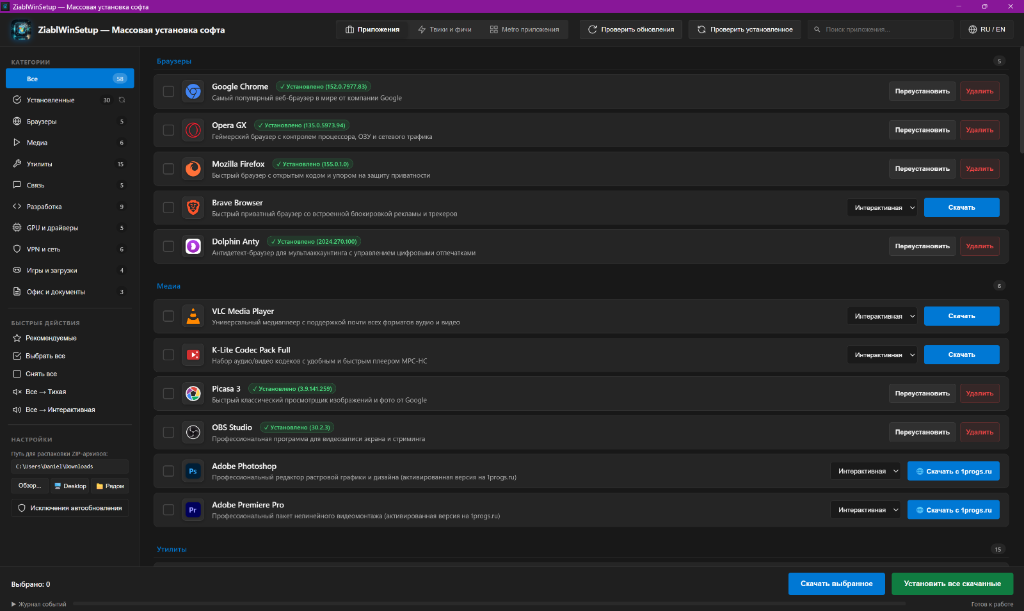
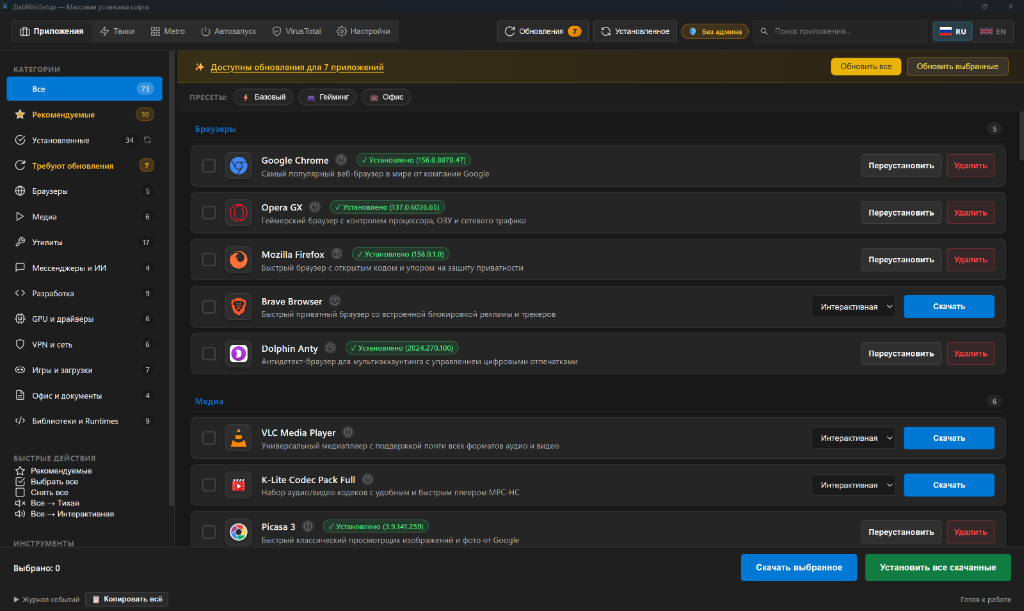
Docs: Update README.md and add high-resolution screenshots for v1.4.29

Changed region(s): [[0.0, 0.0, 1.0, 0.9951], [0.7188, 0.1866, 1.0, 0.9951]]

diff --git a/README.md b/README.md
@@ -1,18 +1,20 @@
 # 🚀 ZiablWinSetup
 
 <div align="center">
-  <img src="assets/icon.png" width="120" height="120" alt="ZiablWinSetup Logo" />
-  <h3>Современная утилита для массовой установки софта, драйверов и тонкой настройки Windows 10/11</h3>
+  <img src="assets/icon.png" width="128" height="128" alt="ZiablWinSetup Logo" />
+  <h3>Современный швейцарский нож для Windows 10 / 11</h3>
+  <p><b>Массовая пакетная установка софта, умные системные твики, деблоатер, замер автозагрузки, очистка реестра и сканер VirusTotal</b></p>
 
   <p>
-    <a href="https://github.com/DanielCarti/ZiablWinSetup/releases/latest"><img src="https://img.shields.io/github/v/release/DanielCarti/ZiablWinSetup?style=for-the-badge&color=2563eb&label=Release" alt="Latest Release" /></a>
-    <a href="https://github.com/DanielCarti/ZiablWinSetup/releases/latest"><img src="https://img.shields.io/github/downloads/DanielCarti/ZiablWinSetup/total?style=for-the-badge&color=10b981&label=Downloads" alt="Downloads" /></a>
-    <img src="https://img.shields.io/badge/Platform-Windows%2010%20%7C%2011%20(x64)-0078d4?style=for-the-badge&logo=windows" alt="Platform" />
-    <img src="https://img.shields.io/badge/License-MIT-green?style=for-the-badge" alt="License" />
+    <a href="https://github.com/DanielCarti/ZiablWinSetup/releases/latest"><img src="https://img.shields.io/github/v/release/DanielCarti/ZiablWinSetup?style=for-the-badge&color=2563eb&label=Версия" alt="Latest Release" /></a>
+    <a href="https://github.com/DanielCarti/ZiablWinSetup/releases/latest"><img src="https://img.shields.io/github/downloads/DanielCarti/ZiablWinSetup/total?style=for-the-badge&color=10b981&label=Скачиваний" alt="Downloads" /></a>
+    <img src="https://img.shields.io/badge/Платформа-Windows%2010%20%7C%2011%20(x64)-0078d4?style=for-the-badge&logo=windows" alt="Platform" />
+    <img src="https://img.shields.io/badge/Лицензия-MIT-green?style=for-the-badge" alt="License" />
+    <img src="https://img.shields.io/badge/Языки-Русский%20%7C%20English-purple?style=for-the-badge" alt="Languages" />
   </p>
 
   <p align="center">
-    <img src="assets/screenshots/main_catalog.png" alt="Главный экран ZiablWinSetup" width="920" />
+    <img src="assets/screenshots/01_main_catalog.png" alt="Главный экран ZiablWinSetup" width="940" />
   </p>
 </div>
 
@@ -20,138 +22,210 @@
 
 ## 🌟 О проекте
 
-**ZiablWinSetup** — это легковесный, автономный и быстрый инструмент для автоматической подготовки, установки софта и оптимизации системы после чистой установки Windows или покупки нового ПК.
+**ZiablWinSetup** — это комплексный, автономный и быстрый инструмент для настройки, обслуживания и автоматической подготовки рабочей среды Windows после чистой переустановки ОС или покупки нового ПК/ноутбука.
 
-Больше не нужно вручную открывать десятки сайтов, закрывать баннеры и кликать «Далее-Далее-Готово»: выберите нужные программы галочками, примените рекомендуемые твики системы и нажмите **«Скачать выбранное»**!
+Забудьте о ручном скачивании десятков инсталляторов из браузера, назойливой рекламе и кликах «Далее-Далее-Готово»: выберите нужный софт галочками или пресетом, примените проверенные системные твики, удалите лишний bloatware и нажмите **«Скачать выбранное»**!
 
-<p align="center">
-  <img src="assets/screenshots/header_tabs.png" alt="Навигация по разделам" width="500" />
-</p>
+---
 
-Интерфейс разделен на четыре ключевые рабочие зоны:
-1. **[Приложения]** — обширный каталог из 71 актуальной программы, утилиты и библиотеки runtimes с пакетной загрузкой и тихой установкой.
-2. **[Твики и фичи]** — моментальная оптимизация Windows, ускорение SSD, удаление встроенной рекламы и возврат классического меню.
-3. **[Metro приложения]** — встроенный деблоатер предустановленных UWP-приложений Windows с возможностью удаления и восстановления в один клик.
-4. **[Автозагрузка]** — продвинутый менеджер автозапуска приложений (реестр, папки автозапуска, службы и планировщик задач Windows).
+## 📸 Галерея интерфейса
+
+| Каталог софта и пресеты | Твики системы (компактный вид) |
+| :---: | :---: |
+| <img src="assets/screenshots/01_main_catalog.png" width="460" /> | <img src="assets/screenshots/02_tweaks_view.png" width="460" /> |
+| **Менеджер автозагрузки с замером нагрузки** | **Деблоатер предустановленных Metro-приложений** |
+| <img src="assets/screenshots/03_startup_manager.png" width="460" /> | <img src="assets/screenshots/04_metro_apps.png" width="460" /> |
+| **Сканер VirusTotal с Drag & Drop** | **Отчёт анализа 70+ антивирусных движков** |
+| <img src="assets/screenshots/05_virustotal_scanner.png" width="460" /> | <img src="assets/screenshots/06_virustotal_result.png" width="460" /> |
+| **Очистка и оптимизация реестра** | **Восстановление программ из бэкапа** |
+| <img src="assets/screenshots/07_registry_cleaner.png" width="460" /> | <img src="assets/screenshots/08_backup_restore.png" width="460" /> |
+| **Кастомизация акцентов и масштабирование** | |
+| <img src="assets/screenshots/09_settings_customization.png" width="460" /> | |
 
 ---
 
 ## ✨ Ключевые возможности
 
-### 📦 1. Богатый каталог софта (71 приложение)
-Все программы распределены по 10 удобным категориям с мгновенным поиском и фильтрацией:
+### 📦 1. Богатый каталог приложений (73 программы) и быстрые пресеты
+
+<p align="center">
+  <img src="assets/screenshots/01_main_catalog.png" alt="Каталог софта ZiablWinSetup" width="920" />
+</p>
+
+Все приложения распределены по 10 категориям с моментальным поиском и фильтрацией:
 
 * 🌐 **Браузеры**: Google Chrome, Opera GX, Mozilla Firefox, Brave, Dolphin{anty}
 * 🎬 **Медиа**: VLC Media Player, K-Lite Codec Pack Full, Picasa 3, OBS Studio, Adobe Photoshop, Adobe Premiere Pro, NVIDIA Broadcast
-* 🔧 **Системные утилиты**: 7-Zip, WinRAR, Everything, Total Commander, EarTrumpet, CPU-Z, HWiNFO, ShareX, PowerToys, CrystalDiskInfo, CrystalDiskMark, OCCT, Uninstall Tool, Unlocker, Unchecky, HitmanPro
-* 📚 **Библиотеки и Runtimes**: DirectX End-User Runtimes (June 2010), Visual C++ Runtimes All-in-One, Visual C++ 2015-2022 (x64/x86), .NET Desktop Runtime 8.0/9.0/6.0, .NET Framework 4.8.1, .NET Framework 3.5
-* 💬 **Связь и мессенджеры**: Telegram Desktop, Discord, Claude Desktop, ChatGPT, Todoist
+* 🔧 **Системные утилиты**: 7-Zip, WinRAR, Everything, Total Commander, EarTrumpet, CPU-Z, HWiNFO, GPU-Z, FurMark, Rufus, ShareX, PowerToys, CrystalDiskInfo, CrystalDiskMark, OCCT, Uninstall Tool, Unlocker, Unchecky, HitmanPro, Driver Booster
+* 📚 **Библиотеки и Runtimes**: DirectX End-User Runtimes (June 2010), Visual C++ Runtimes All-in-One, Visual C++ 2015–2022 (x64/x86), .NET Desktop Runtime 8.0/9.0/6.0, .NET Framework 4.8.1, .NET Framework 3.5
+* 💬 **Мессенджеры и AI**: Telegram Desktop, Discord, Claude Desktop, ChatGPT, Todoist
 * 💻 **Разработка**: Visual Studio Code, PyCharm Community, Sublime Text, Notepad++, Git, Python 3, Eclipse Temurin JDK 21, Open Code Interpreter, Claude Code
-* 🖥 **GPU и драйверы**: NVIDIA App, AMD Software: Adrenalin, GPU-Z, FurMark, Driver Booster
-* 🔒 **VPN и сеть**: AmneziaVPN, Zapret (обход блокировок Discord & YouTube), YogaDNS, TeleProxy, Opera Proxy, AnyDesk
-* 🎮 **Игры и загрузки**: Steam, Roblox, TLauncher (Minecraft), qBittorrent, BitTorrent, Dropbox
+* 🖥 **GPU и драйверы**: NVIDIA App, AMD Software: Adrenalin Edition
+* 🔒 **VPN и безопасность**: AmneziaVPN, Zapret (обход замедлений YouTube и Discord), YogaDNS, TeleProxy, Opera Proxy, AnyDesk
+* 🎮 **Игры и загрузки**: Steam, HydraLauncher, Roblox, TLauncher (Minecraft), qBittorrent, BitTorrent, Dropbox
 * 📑 **Офис и документы**: Obsidian, LibreOffice, OpenOffice
 
-**Особенности менеджера загрузок:**
-- Пакетное скачивание в несколько параллельных потоков с отображением прогресс-бара и скорости.
-- Поддержка тихой (фоновой) установки без участия пользователя.
-- Автоматическая распаковка ZIP-архивов и создание готовых ярлыков на Рабочем столе (Zapret и др.).
+**Фирменные возможности менеджера загрузок:**
+- ⚡ **Быстрые пресеты в 1 клик**: «Обязательный», «Гейминг», «Офис» для мгновенного набора софта под задачу.
+- 🚀 **Параллельная тихая установка**: загрузка в несколько потоков с автоматическим пропуском диалогов инсталляторов.
+- 📦 **Автоматическая распаковка архивов**: автоматическое развёртывание ZIP-пакетов и создание готовых ярлыков на Рабочем столе.
+- 🔍 **Контекстный поиск**: глобальный поиск только в каталоге софта без перебивания фильтров на соседних вкладках.
 
 ---
 
-### 🔄 2. Интеллектуальный центр обновлений
+### 🔄 2. Интеллектуальный центр обновлений софта
 
-<p align="center">
-  <img src="assets/screenshots/updates_banner.png" alt="Центр обновлений" width="860" />
-</p>
-
-- **Автоматический мониторинг версий**: сканирование установленного софта через Winget и GitHub Releases API.
-- **Информативная панель**: мгновенное уведомление о количестве доступных обновлений.
-- **Редизайн кнопки «Обновить»**: выразительная Windows 11 кнопка с подсветкой и акцентным градиентом прямо на карточке программы.
-- **Гибкие исключения**: удобное модальное окно для исключения программ из массового обновления (например, для специфических или портативных версий ПО).
-- **Синхронизация на лету**: повторное сканирование системы без перезапуска приложения.
-
-<p align="center">
-  <img src="assets/screenshots/update_exclusions.png" alt="Окно исключений из автообновления" width="520" />
-</p>
+- **Автоматический мониторинг версий**: сканирование установленного софта через Winget CLI и официальный GitHub Releases REST API.
+- **Информативная панель**: верхний баннер с точным количеством найденных обновлений.
+- **Кнопка «Обновить» на карточке**: подсветка устаревших программ и обновление любой из них в один клик.
+- **Исключения из обновлений**: гибкое скрытие специфических версий ПО или кастомных сборок из списка массового обновления.
+- **Синхронизация на лету**: мгновенное повторное сканирование системы без перезапуска приложения.
 
 ---
 
-### ⚡ 3. Системные твики и оптимизация («Твики и фичи»)
+### ⚡ 3. Твики и оптимизация Windows («Твики»)
 
 <p align="center">
-  <img src="assets/screenshots/tweaks_view.png" alt="Твики и оптимизация" width="920" />
+  <img src="assets/screenshots/02_tweaks_view.png" alt="Твики и оптимизация" width="920" />
 </p>
 
-Каждый твик сопровождается подробным описанием и безопасным переключателем:
+- 🎛 **3 режима отображения**: переключайтесь между карточками (`⊞ Плитки`), компактной сеткой (`🗖 Компактно`) и списком (`☰ Список`) — выбор автоматически сохраняется!
+- 🔍 **Собственный локальный поиск**: удобная фильтрация нужного твика без переключения контекста.
+- ⚡ **Мгновенное применение без перезагрузки explorer.exe**: твики панели задач и проводника используют системные события `WM_SETTINGCHANGE` и `SHChangeNotify`, вступая в силу в реальном времени.
 
 | Твик | Описание и эффект |
 | :--- | :--- |
-| 🚀 **Максимальная производительность** | Разблокировка и активация скрытой схемы электропитания Windows *Ultimate Performance* для максимального отклика CPU. |
-| 📁 **Показ расширений файлов** | Автоматическое включение отображения расширений всех типов файлов в Проводнике. |
-| 📋 **Классическое контекстное меню** | Возврат полного контекстного меню в стиле Windows 10 в проводнике Windows 11 (без пункта «Показать дополнительные параметры»). |
-| 🚫 **Блокировка рекламы в торрентах** | Полное отключение встроенных рекламных баннеров и всплывающих промо в клиентах BitTorrent и uTorrent (с возможностью обратного включения). |
-| 💾 **Отключение индексации SSD** | Остановка и отключение службы `WSearch` (Windows Search) для снижения фонового износа ячеек памяти SSD (TBW) и разгрузки диска. |
-| 🔍 **Скрытие поиска на Панели задач** | Отключение громоздкой поисковой строки на панели задач для освобождения свободного места. |
-| 📌 **Выравнивание Панели задач влево** | Перенос меню «Пуск» и закреплённых иконок к левому краю экрана в стиле Windows 10. |
-| 🧹 **Очистка кэша Steam** | Удаление накопившегося кэша HTML-браузера, шейдеров и временных файлов загрузок Steam без затрагивания игр. |
-| 💬 **Очистка медиа-кэша Telegram** | Безопасное освобождение гигабайтов кэша видео, аудио и изображений Telegram Desktop. |
-| 🔇 **Отключение рекламы в меню Пуск** | Блокировка рекомендаций, подсказок и рекламных плиток в меню «Пуск» Windows 10/11. |
+| 🚀 **Максимальная производительность** | Разблокировка и активация скрытой схемы электропитания Windows *Ultimate Performance*. |
+| 📁 **Показ расширений файлов** | Включение отображения расширений всех типов файлов в Проводнике Windows. |
+| 📋 **Классическое контекстное меню** | Возврат классического контекстного меню в стиле Windows 10 в Windows 11. |
+| 🚫 **Блокировка рекламы в торрентах** | Отключение баннеров и промо-блоков в клиентах BitTorrent и uTorrent. |
+| 💾 **Отключение индексации SSD** | Остановка службы поиска `WSearch` для продления ресурса SSD-накопителя (TBW). |
+| 🔍 **Скрытие поиска на Панели задач** | Отключение громоздкой поисковой строки для освобождения места на Панели задач. |
+| 📌 **Выравнивание Панели задач влево** | Перенос меню «Пуск» и закреплённых иконок к левому краю экрана. |
+| 🧹 **Очистка кэша Steam** | Безопасное удаление накопившегося кэша браузера, шейдеров и временных файлов загрузок. |
+| 💬 **Очистка медиа-кэша Telegram** | Освобождение дискового пространства от кэша медиа Telegram Desktop. |
+| 🔇 **Отключение рекламы в меню Пуск** | Блокировка рекомендаций и спонсорских приложений в меню «Пуск». |
+| 🧹 **Очистка инсталляторов ZiablWinSetup** | Освобождение места от временных дистрибутивов программ после установки. |
+| 🛡 **Очистка и оптимизация реестра** | Моментальный запуск модуля поиска и исправления проблемных записей реестра. |
+| 🛠 **Проверка целостности SFC** | Запуск системного сканирования и восстановления повреждённых файлов (`sfc /scannow`). |
+| 🏥 **Восстановление образа DISM** | Запуск сканирования и починки системного образа Windows через `DISM /RestoreHealth`. |
 
 ---
 
-### 🪟 4. Встроенные Metro / UWP приложения («Metro приложения»)
+### 🚀 4. Менеджер автозагрузки с анализом нагрузки
 
 <p align="center">
-  <img src="assets/screenshots/metro_apps.png" alt="Metro приложения" width="920" />
+  <img src="assets/screenshots/03_startup_manager.png" alt="Менеджер автозагрузки" width="920" />
 </p>
 
-Удобный графический деблоатер стандартных Windows AppX-пакетов:
-- **Контроль над 21 встроенным приложением**: Погода MSN, Новости, Кортана, Связь с телефоном, Камера, Карты, Xbox Game Bar, Запись голоса, Советы, Microsoft Solitaire, Paint 3D, Clipchamp и др.
-- **Удаление в один клик**: быстрое удаление предустановленного «мусора» через официальный PowerShell AppX API.
-- **Восстановление в один клик**: повторная регистрация из системного хранилища Windows или переход на страницу в Microsoft Store.
-- **Пакетные операции**: выделение нужных приложений чекбоксами и одновременное удаление или восстановление.
+Полноценный диагностический центр автозапуска, превосходящий стандартный Диспетчер задач:
+- 📊 **Оценка влияния на запуск (Impact)**:
+  - 🔴 **Высокое** — ресурсоёмкие клиенты, фоновые лаунчеры и тяжелые службы.
+  - 🟡 **Среднее** — сервисы синхронизации и утилиты периферии.
+  - 🟢 **Низкое** — легковесные службы, фоновые трей-агенты.
+  - ⚪ **Не замерено** — недавно добавленные элементы.
+- 🔍 **Глубокий охват всех системных источников**:
+  - Пользовательский и системный реестр: `HKCU\Run`, `HKLM\Run`, `HKLM\RunOnce`, `WOW6432Node`.
+  - Системные службы Windows (`services.msc`).
+  - Планировщик задач Windows (`Task Scheduler`).
+  - Папки автозагрузки (`Startup` в `%APPDATA%` и `%PROGRAMDATA%`).
+  - UWP/Metro приложения с автозапуском.
+- 🛡 **Безопасное включение и отключение**: использование официального Windows-механизма `StartupApproved`, предотвращающего безвозвратное удаление путей к исполняемым файлам.
+- 📂 **Быстрый переход к файлу**: открытие расположения программы в Проводнике (`explorer.exe /select`) в 1 клик.
 
 ---
 
-### 🚀 5. Менеджер автозагрузки Windows («Автозагрузка»)
-Продвинутый инструмент управления автозапуском, находящий скрытые элементы, которые часто не видит стандартный Диспетчер задач:
-- **Глубокое сканирование всех источников**:
-  - Системный и пользовательский реестр: `HKCU\Run`, `HKCU\RunOnce`, `HKLM\Run`, `HKLM\RunOnce`, `WOW6432Node` (32-битные приложения).
-  - Папки «Автозагрузка»: `%APPDATA%\Microsoft\Windows\Start Menu\Programs\Startup` и `%PROGRAMDATA%\...`.
-  - Запланированные задачи Windows: авторизационные триггеры в Планировщике задач (`Task Scheduler`).
-- **Безопасное включение и отключение**: интеграция с системным механизмом Windows `StartupApproved` (сохраняет пути и команды без риска их потери).
-- **Определение издателя**: автоматическое чтение метаданных Win32 VersionInfo и определение официального разработчика.
-- **Действия в один клик**: моментальный переход к файлу в Проводнике Windows (`explorer.exe /select`) и полное удаление лишних записей.
+### 🪟 5. Деблоатер встроенных Metro / UWP приложений
+
+<p align="center">
+  <img src="assets/screenshots/04_metro_apps.png" alt="Metro приложения" width="920" />
+</p>
+
+- **Контроль над 22 встроенными приложениями**: Погода MSN, Новости, Кортана, Связь с телефоном, Камера, Карты, Xbox Game Bar, Запись голоса, Советы, Microsoft Solitaire, Paint 3D, Clipchamp и др.
+- **Удаление в один клик**: чистое удаление предустановленного мусора через PowerShell AppX API.
+- **Восстановление в один клик**: регистрация пакета обратно из системного хранилища Windows или переход на страницу в Microsoft Store (с автоматическим веб-фоллбэком, если Store удалён из системы).
+- **Пакетные операции**: удобные чекбоксы для одновременного удаления или восстановления группы приложений.
 
 ---
 
-### 🪟 6. Системный трей и автозапуск приложения
-- **Миниатюрная иконка в трее**: аккуратная иконка с возможностью быстро свернуть/развернуть окно кликом.
-- **Контекстное меню трея**: открытие окна, запуск проверки обновлений софта, переключение автозапуска и чистый выход.
-- **Сворачивание при закрытии**: фоновая работа без загромождения Панели задач.
-- **Автозапуск с Windows**: удобный переключатель в настройках для тихого старта в трее при загрузке системы (`--tray`).
+### 🛡 6. Встроенный сканер VirusTotal с хранилищем ключей
+
+<p align="center">
+  <img src="assets/screenshots/05_virustotal_scanner.png" alt="Входной экран VirusTotal" width="460" />
+  <img src="assets/screenshots/06_virustotal_result.png" alt="Результаты проверки VirusTotal" width="460" />
+</p>
+
+- ⚡ **Мгновенный хэш-поиск**: вычисление SHA-256 файла прямо на стороне клиента через Web Crypto API и моментальное получение отчёта из базы VirusTotal без долгой отправки файла по сети.
+- 📤 **Автоматическая загрузка новых файлов**: если хэш ещё не известен VirusTotal, файл отправляется на анализ напрямую через официальный API v3.
+- 📁 **Два режима выбора файла**: удобный Drag & Drop прямо в окно приложения или нативный системный проводник Windows через чистый Win32 `comdlg32`.
+- 🔑 **Менеджер «Мои ключи»**: сохраняйте несколько собственных API-ключей VirusTotal, переключайтесь между ними в 1 клик или используйте встроенный системный шлюз.
+- 📊 **Подробный отчёт**: количество детектов, точный вердикт каждого из 70+ антивирусных движков, категория угрозы, дата сканирования и кнопка копирования SHA-256.
 
 ---
 
-### 🎨 7. Дизайн и эргономика
-- **Windows 11 Fluent Design**: полупрозрачность Mica, гарнитура Segoe UI Variable, стилизованные чекбоксы и кнопки.
-- **Поддержка тем**: переключение между тёмной и светлой темами оформления.
-- **Мгновенный перевод интерфейса (RU / EN)**: бесшовное переключение языка на лету без перезапуска.
-- **Защита от случайного прерывания**: диалоговое предупреждение при попытке закрыть окно во время активного скачивания или установки.
+### 🧹 7. Очистка и оптимизация системного реестра
+
+<p align="center">
+  <img src="assets/screenshots/07_registry_cleaner.png" alt="Очистка реестра" width="700" />
+</p>
+
+- 🔎 **Интеллектуальное сканирование**:
+  - Остатки удалённых программ в списках деинсталляции (`Uninstall`).
+  - Недействительные записи автозапуска (`Run` / `RunOnce`).
+  - Ошибочные пути приложений в `App Paths`.
+  - Устаревший кэш шрифтов и интерфейса `MuiCache`.
+- 💾 **Автоматический бэкап**: перед любым изменением реестра автоматически создаётся восстановительный файл `.reg` с датой и временем.
+- 🛡 **Честная проверка и безопасность**: удаление защищённых системных записей HKLM с разовым запросом UAC-повышения, физической верификацией удаления ключа и встроенной кнопкой «Восстановить из бэкапа».
+
+---
+
+### 💾 8. Резервное копирование и перенос софта
+
+<p align="center">
+  <img src="assets/screenshots/08_backup_restore.png" alt="Восстановление софта" width="700" />
+</p>
+
+- 📋 **Резервная копия установленного ПО**: экспорт списка программ с текущего компьютера в компактный текстовый манифест.
+- 🔄 **Пакетное развёртывание**: на новом или только что переустановленном компьютере откройте бэкап и отметьте нужные программы для автоматической пакетной установки через ZiablWinSetup.
+- ⚙ **Умный фильтр драйверов и компонентов**: системные драйверы (Realtek, AMD, Intel) и скрытые зависимости аккуратно отделены от пользовательских приложений переключателем.
+
+---
+
+### 🎨 9. Персонализация, масштабирование и эргономика
+
+<p align="center">
+  <img src="assets/screenshots/09_settings_customization.png" alt="Настройки и персонализация" width="700" />
+</p>
+
+- 🎨 **Выбор акцентного цвета**: выберите фирменный цвет под оформление рабочего стола:
+  - 🔵 **Windows Blue** (Классический синий)
+  - 🟣 **Cyber Purple** (Неоновый фиолетовый)
+  - 🟢 **Emerald Green** (Изумрудный зелёный)
+  - 🟠 **Sunset Orange** (Закатный оранжевый)
+  - 🔴 **Crimson Red** (Багровый красный)
+- 🔍 **Масштаб интерфейса (75% – 130%)**: адаптация под любые разрешения мониторов от компактных ноутбуков до 4K-экранов.
+- ↔ **Регулируемые панели**: изменяйте ширину бокового меню категорий и высоту панели системного лога простым перетаскиванием мыши (размеры сохраняются).
+- 🛡 **Индикатор прав администратора**: наглядный бейдж в заголовке («Админ» / «Без админа») с возможностью безопасного перезапуска от имени администратора в 1 клик.
+- 🌍 **Полная двуязычность**: моментальное переключение между русским и английским языками (RU / EN) на лету.
+- 🔔 **Системный трей**: фоновая работа, контекстное меню быстрого доступа и опция тихого старта вместе с Windows (`--tray`).
 
 ---
 
 ## 🚀 Как запустить
 
-### Вариант 1. Готовый EXE-файл (Рекомендуется)
-Скачайте актуальный релиз без необходимости устанавливать Python и зависимости:
+### Вариант 1. Готовый исполняемый файл (Рекомендуется)
 
-👉 **[Скачать последнюю версию ZiablWinSetup.exe](https://github.com/DanielCarti/ZiablWinSetup/releases/latest)**
+Не требует установки Python и каких-либо сторонних компонентов:
 
-Просто сохраните файл и запустите его от имени администратора.
+👉 **[Скачать актуальный ZiablWinSetup.exe](https://github.com/DanielCarti/ZiablWinSetup/releases/latest)**
+
+1. Скачайте файл `ZiablWinSetup.exe`.
+2. Запустите его (для полного доступа ко всем твикам и реестру рекомендуется запуск от имени администратора).
+
+---
 
 ### Вариант 2. Запуск из исходного кода
+
 ```bash
 # Клонируйте репозиторий
 git clone https://github.com/DanielCarti/ZiablWinSetup.git
@@ -170,27 +244,28 @@ python main.py
 ## 🛠 Сборка собственного EXE
 
 Для компиляции автономного исполняемого файла используется **PyInstaller**:
+
 ```bash
 pyinstaller --clean ZiablWinSetup.spec
 ```
-Или выполните скрипт сборщика:
+Или запустите готовый командный файл:
 ```cmd
 build.bat
 ```
-Собранный исполняемый файл будет помещён в директорию `dist/ZiablWinSetup.exe`.
+Собранный `.exe` будет находиться в папке `dist/ZiablWinSetup.exe`.
 
 ---
 
 ## 💻 Стек технологий
 
-- **Ядро**: Python 3.10+ (ctypes, subprocess, winreg, urllib, Win32 API)
-- **GUI-движок**: [pywebview](https://pywebview.flowrl.com/) (Microsoft Edge WebView2 Chromium)
-- **UI/UX**: HTML5, Vanilla CSS3 (Fluent Design System, CSS Variables, Flexbox/Grid), SVG-иконки
-- **Менеджеры пакетов**: Winget CLI, GitHub REST API, прямые CDN-зеркала
-- **Сборка и CI/CD**: PyInstaller, GitHub Actions (.github/workflows/release.yml)
+- **Ядро**: Python 3.10+ (Win32 ctypes, winreg, subprocess, urllib)
+- **GUI-движок**: [pywebview](https://pywebview.flowrl.com/) на базе Microsoft Edge WebView2 (Chromium)
+- **Фронтенд**: HTML5, Vanilla CSS3 (Fluent Design System, CSS Variables, Flexbox/Grid), Web Crypto API
+- **Пакетные менеджеры & API**: Winget CLI, GitHub REST API, VirusTotal API v3
+- **Сборка и автоматизация**: PyInstaller, GitHub Actions (.github/workflows/release.yml)
 
 ---
 
 ## 📄 Лицензия
 
-Проект распространяется под лицензией **MIT**. Подробности в файле [LICENSE](LICENSE).
+Проект распространяется под свободной лицензией **MIT**. Подробности в файле [LICENSE](LICENSE).
